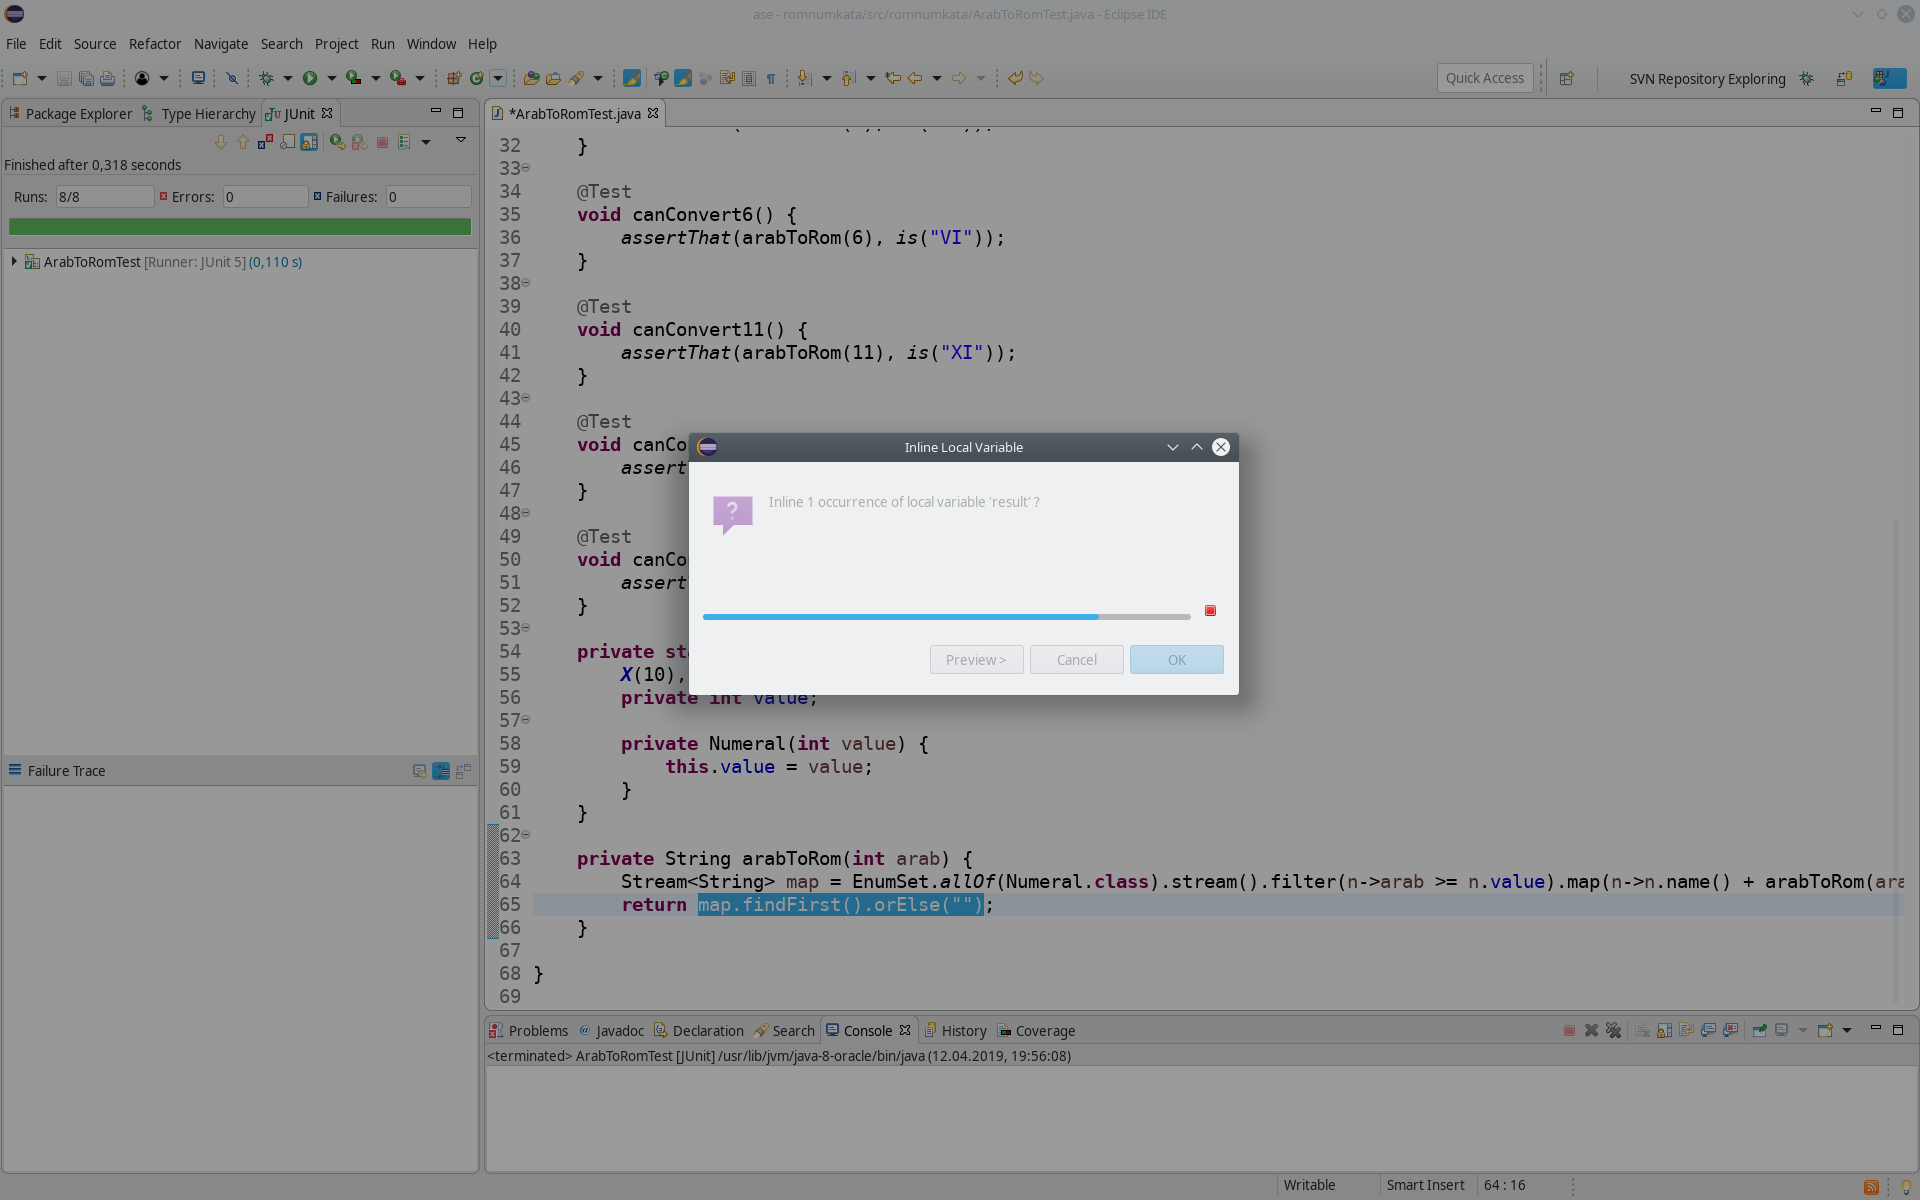
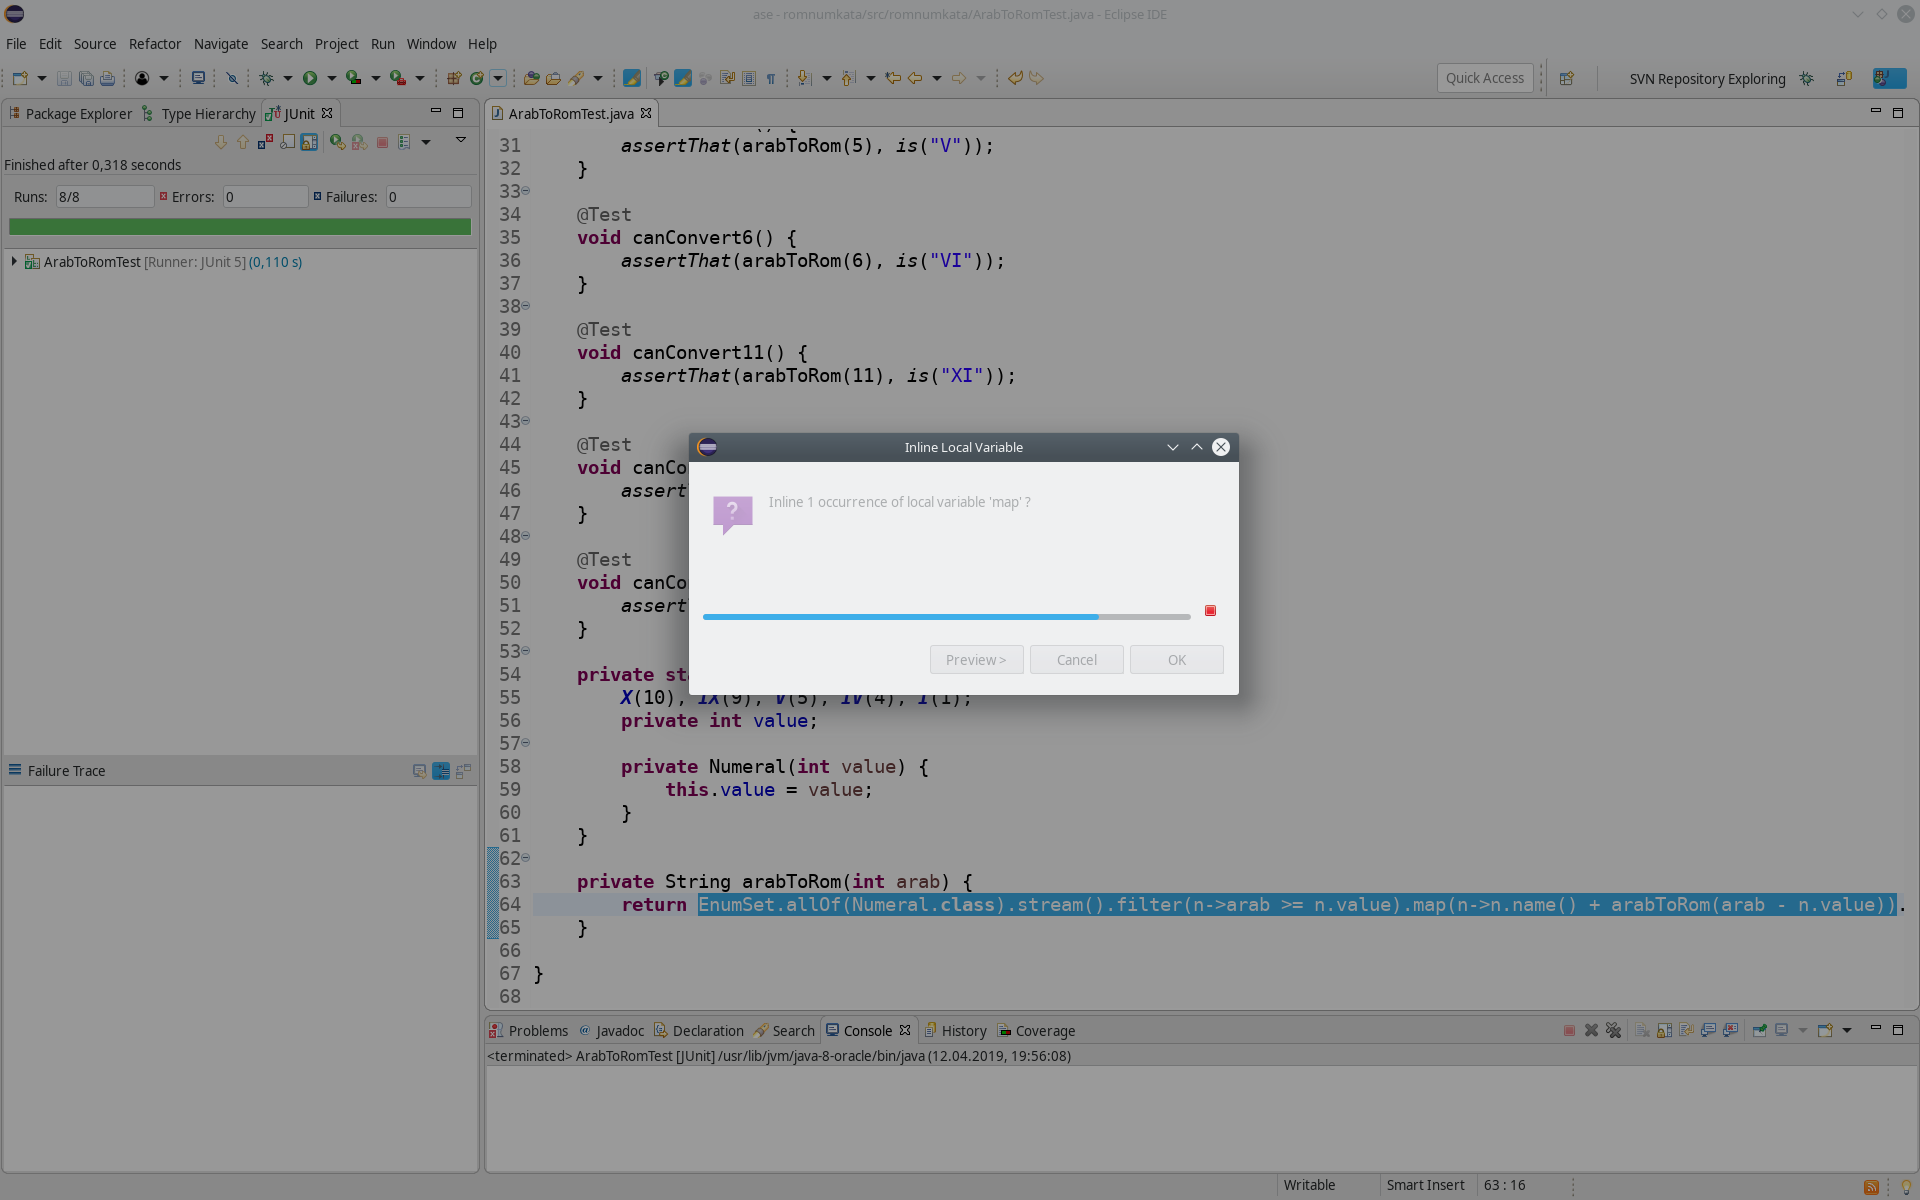
autocommit on change

diff --git a/src/romnumkata/ArabToRomTest.java b/src/romnumkata/ArabToRomTest.java
@@ -60,8 +60,7 @@ public class ArabToRomTest {
 	}
 
 	private String arabToRom(int arab) {
-		Stream<String> map = EnumSet.allOf(Numeral.class).stream().filter(n->arab >= n.value).map(n->n.name() + arabToRom(arab - n.value));
-		return map.findFirst().orElse("");
+		return EnumSet.allOf(Numeral.class).stream().filter(n->arab >= n.value).map(n->n.name() + arabToRom(arab - n.value)).findFirst().orElse("");
 	}
 
 }
